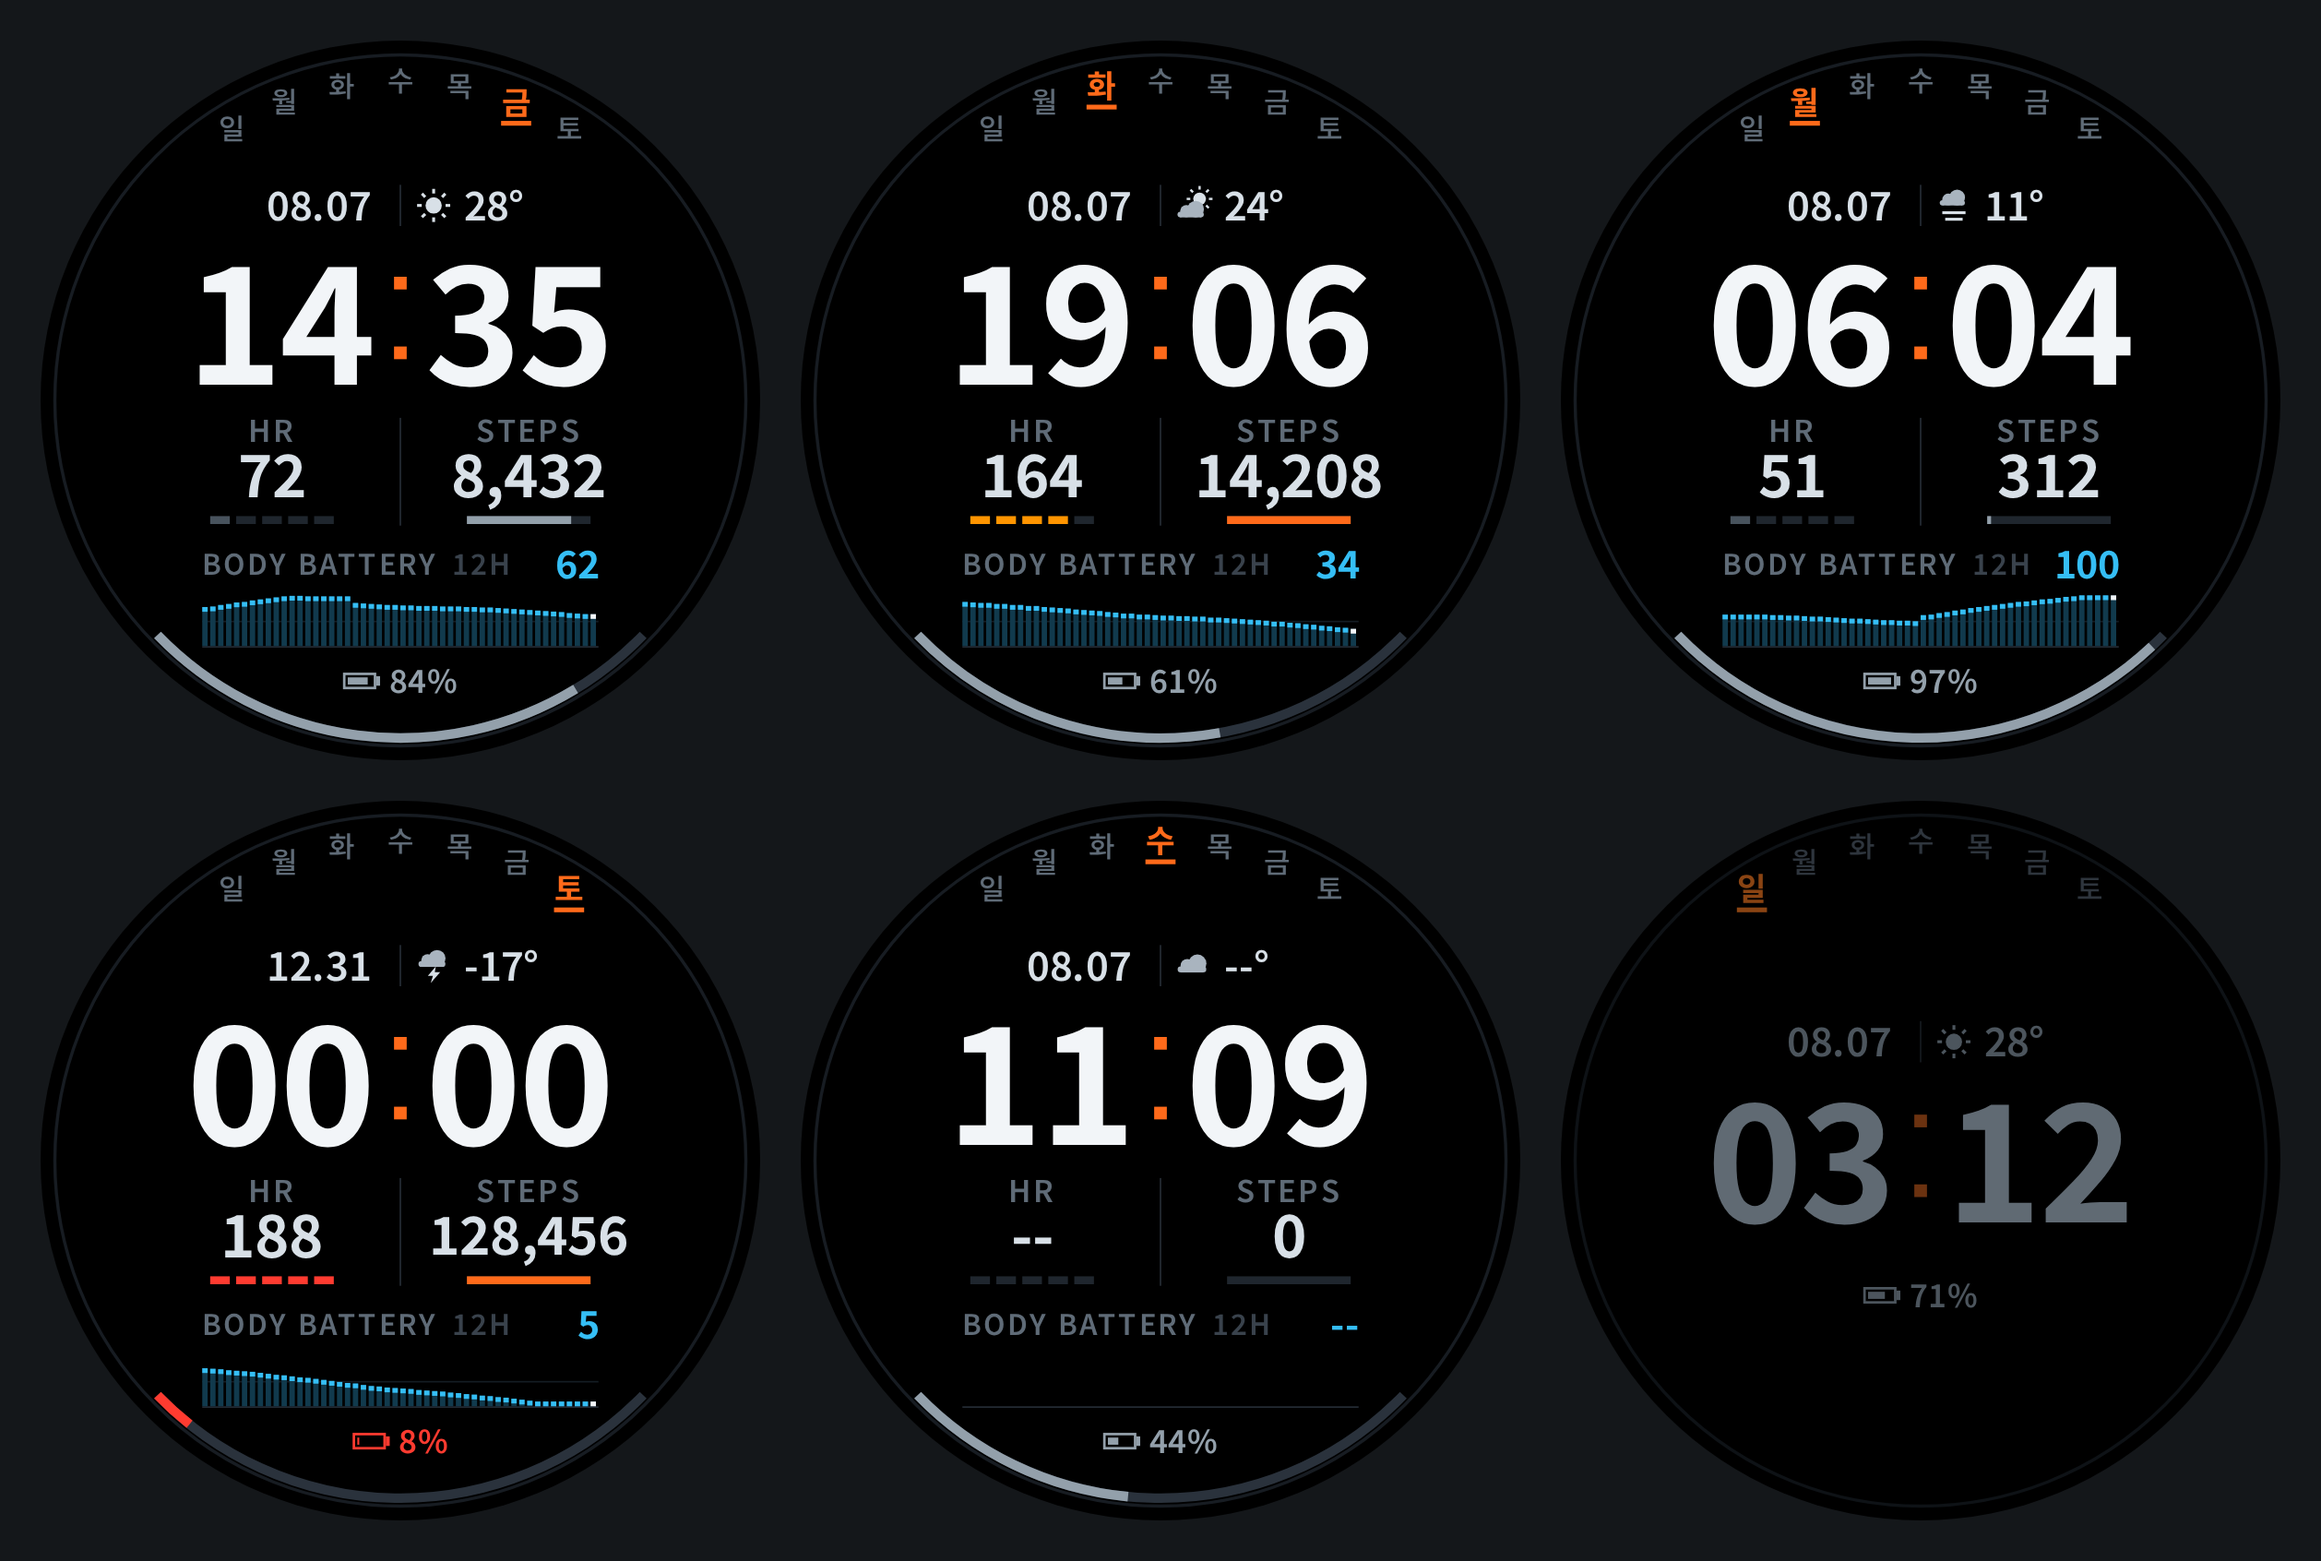
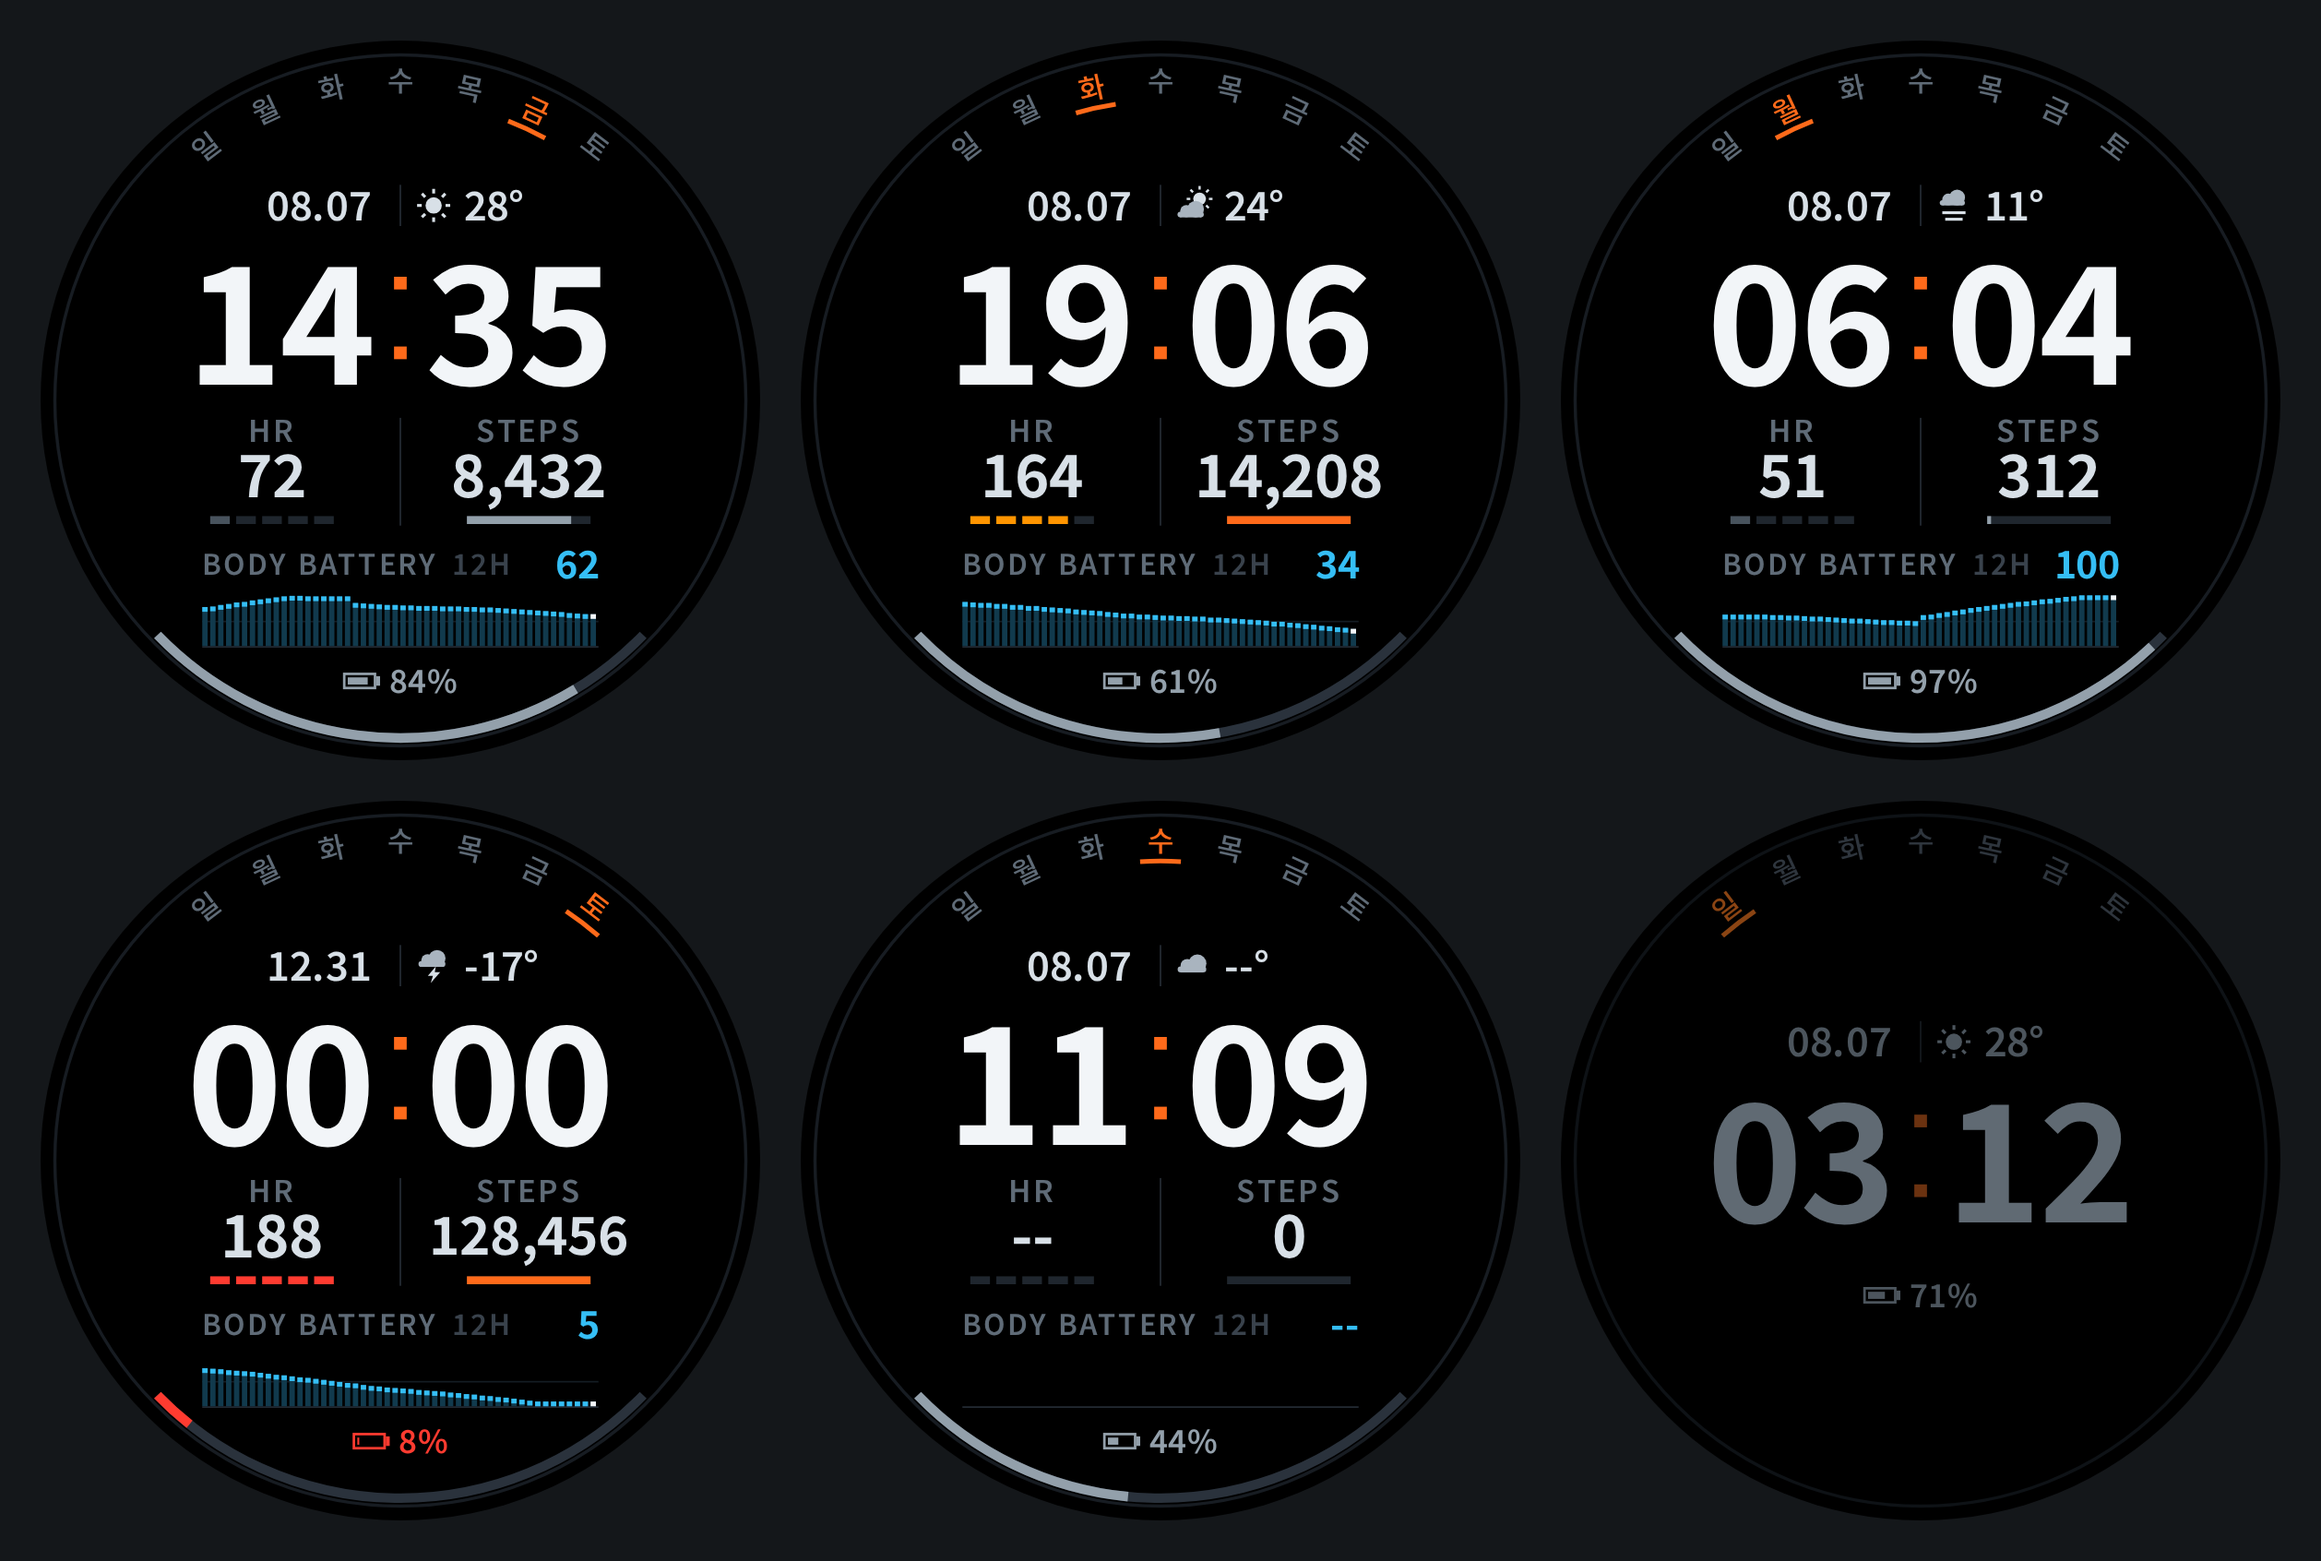
feat: 요일 표시를 부채꼴 배치로 변경
글자를 똑바로 세운 채 아치 위에 올려두던 방식에서, 각 글자를 자기
반지름 방향으로 회전시켜 중심에서 펼쳐지는 부채꼴로 바꿨다.
요일 행이 베젤 위에 얹힌 게 아니라 베젤에 속한 것처럼 읽힌다.

- 글자 회전: Dc.drawAngledText (미지원 기기는 직립으로 자동 폴백)
- 강조 표시: 직선 밑줄 -> 접선 방향 호 세그먼트.
  글자 안쪽 바로 아래에 붙이고 글자보다 살짝 넓게 잡아
  한글의 가로획과 섞이지 않게 함
- 부채 각도 10.6 -> 12.5도로 확대해 펼침을 뚜렷하게
- 활성 글자의 크기/굵기 차이 제거. 가민 시스템 폰트에는 볼드 변형이
  없어 실기기에서 재현되지 않으므로, 프리뷰도 액센트 색과 호만으로
  강조하도록 맞췄다

Claude-Session: https://claude.ai/code/session_01FpriSysQf7rLMT1qCT1X8b

diff --git a/preview/face.js b/preview/face.js
@@ -53,11 +53,10 @@
 
     /* weekday bezel arc */
     wdR: 202,
-    wdStep: 10.6, // degrees between labels
+    wdStep: 12.5, // degrees between labels
     wdFont: 18,
-    wdFontOn: 20,
-    wdBarDy: 12, // underline sits below the glyph in screen space, not radially
-    wdBarW: 19,
+    wdBarR: 189,     // highlight arc, just inboard of the glyphs
+    wdBarSpan: 7.8,  // degrees of arc the highlight covers
     wdBarH: 3,
 
     /* date | weather strip */
@@ -357,21 +356,28 @@
     var cx = g(227);
     var cy = g(227);
 
+    /* Each glyph is rotated to stand on its own radius, so the row reads as a
+       fan struck from the centre rather than as text sitting on an arch. */
     for (var i = 0; i < 7; i++) {
-      var th = ((i - 3) * L.wdStep * Math.PI) / 180;
+      var deg = (i - 3) * L.wdStep;
+      var th = (deg * Math.PI) / 180;
       var on = i === today;
-      var x = cx + Math.sin(th) * g(L.wdR);
-      var y = cy - Math.cos(th) * g(L.wdR);
       var color = on ? (opts.dim ? '#8A4413' : C.accent) : opts.dim ? '#2E353D' : C.textLow;
 
-      text(ctx, labels[i], x, y, {
-        size: g(on ? L.wdFontOn : L.wdFont),
-        weight: on ? 700 : 500,
+      ctx.save();
+      ctx.translate(cx + Math.sin(th) * g(L.wdR), cy - Math.cos(th) * g(L.wdR));
+      ctx.rotate(th);
+      text(ctx, labels[i], 0, 0, {
+        size: g(L.wdFont),
+        weight: 500,
         color: color,
       });
+      ctx.restore();
 
       if (on) {
-        rect(ctx, x - g(L.wdBarW) / 2, y + g(L.wdBarDy), g(L.wdBarW), g(L.wdBarH), color);
+        var half = L.wdBarSpan / 2;
+        arc(ctx, cx, cy, g(L.wdBarR),
+            -90 + deg - half, -90 + deg + half, g(L.wdBarH), color);
       }
     }
   }

diff --git a/README.md b/README.md
@@ -10,7 +10,7 @@ weighted support tier.
 
 | Data                | Where                                                            |
 | ------------------- | ---------------------------------------------------------------- |
-| Weekday             | Arc on the top bezel, `일 월 화 수 목 금 토`, today in accent + underline |
+| Weekday             | Fan on the top bezel, `일 월 화 수 목 금 토`, today in accent + arc underline |
 | Date                | Left of the strip under the weekday arc, `MM.DD`                  |
 | Time                | Centre, 24-hour, `HH:MM`, always two digits                       |
 | Weather + outdoor temp | Right of the strip: drawn condition glyph + current temperature |
@@ -43,6 +43,13 @@ day between 40 and 100, so a plain 0–100 bar chart collapses into a solid slab
 Each column is filled dim and capped bright, which keeps the absolute level
 legible *and* draws the shape of the curve. The most recent column is capped in
 white as a "now" marker.
+
+**The weekday row is a fan, not an arch.** Each glyph is rotated to stand on
+its own radius, and the highlight under today is an arc segment rather than a
+straight bar, so the whole row belongs to the bezel instead of sitting on top of
+it. Garmin's system fonts have no bold variant, so today is marked by the accent
+colour and that arc alone — never by weight or size, which the preview must not
+promise either.
 
 **The bezel carries the two cyclical values.** Weekday on the top arc, battery
 gauge on the bottom arc. Both are things you glance at rather than read, and
@@ -142,7 +149,11 @@ Check them in this order:
 5. `Gfx.arcScreen` converts screen degrees to Garmin's counter-clockwise
    convention. Confirm the battery gauge fills from the lower left toward the
    lower right; if it sweeps the wrong way the conversion is inverted.
-6. Font sizes. `Layout` positions everything by anchor and relies on
+6. `Dc.drawAngledText` is what rotates the weekday glyphs, and its angle is
+   assumed to be counter-clockwise like `drawArc` — `Gfx.angledText` negates
+   accordingly. If the fan leans the wrong way, drop the negation. Devices
+   without the method fall back to upright glyphs automatically.
+7. Font sizes. `Layout` positions everything by anchor and relies on
    `TEXT_JUSTIFY_VCENTER`, so wrong-sized system fonts will not break the
    layout, but the preview's proportions are an approximation — compare the
    simulator against `preview/renders/` and adjust `ReconView`'s font choices.
